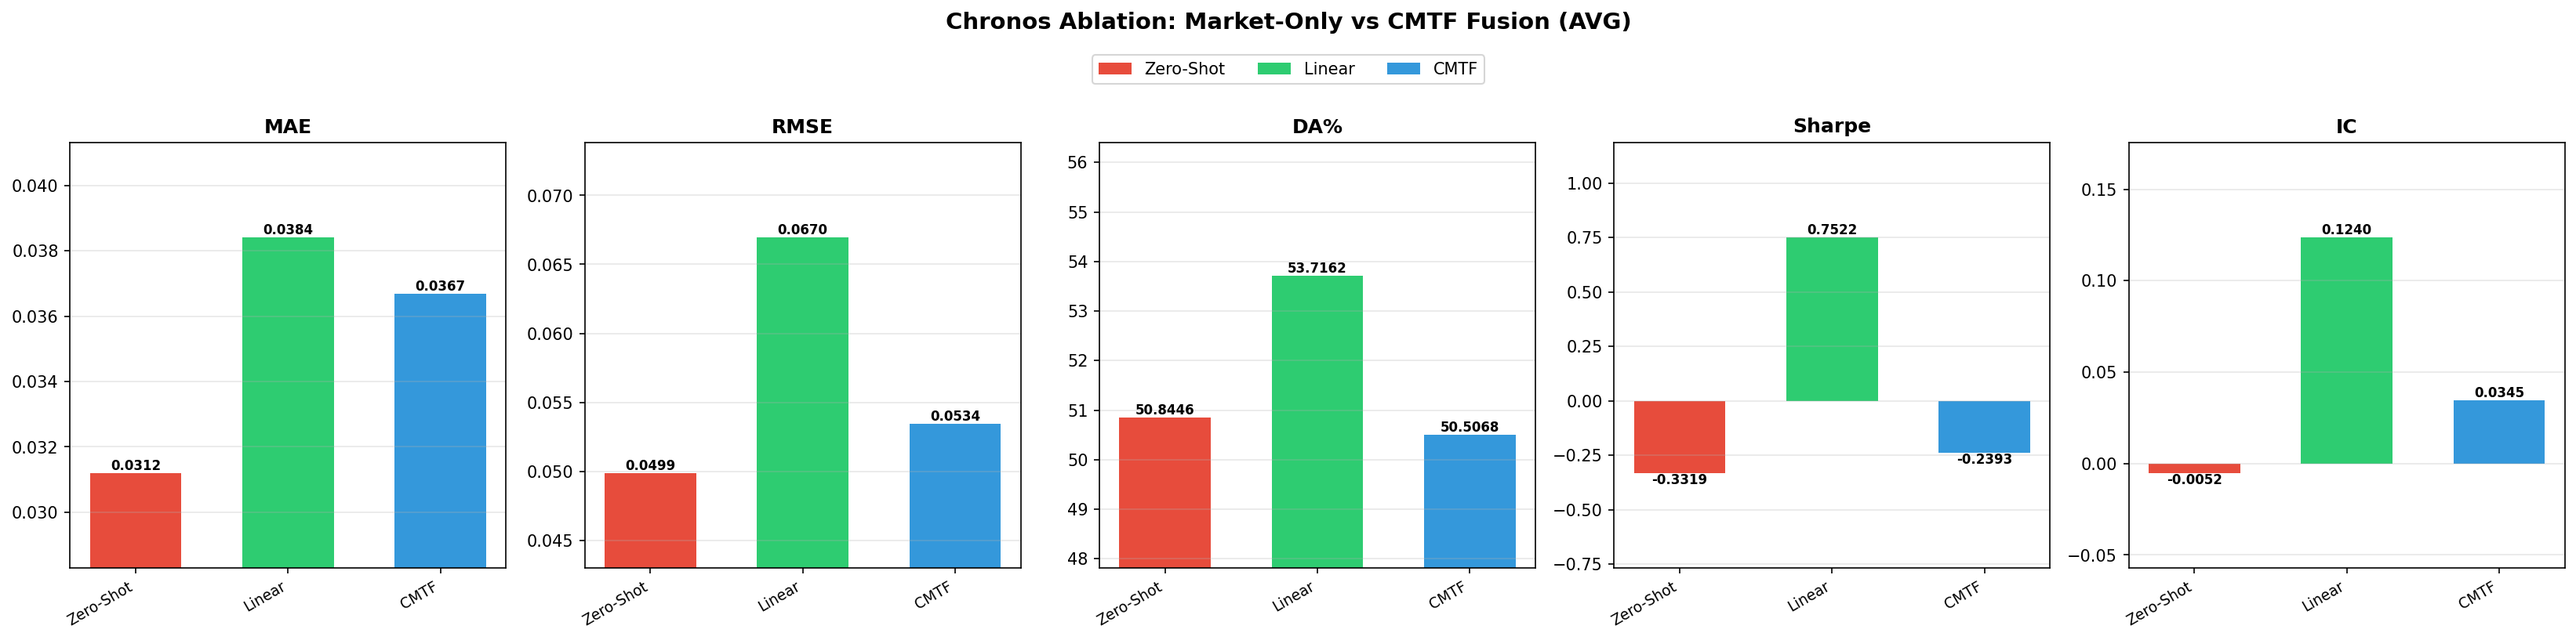
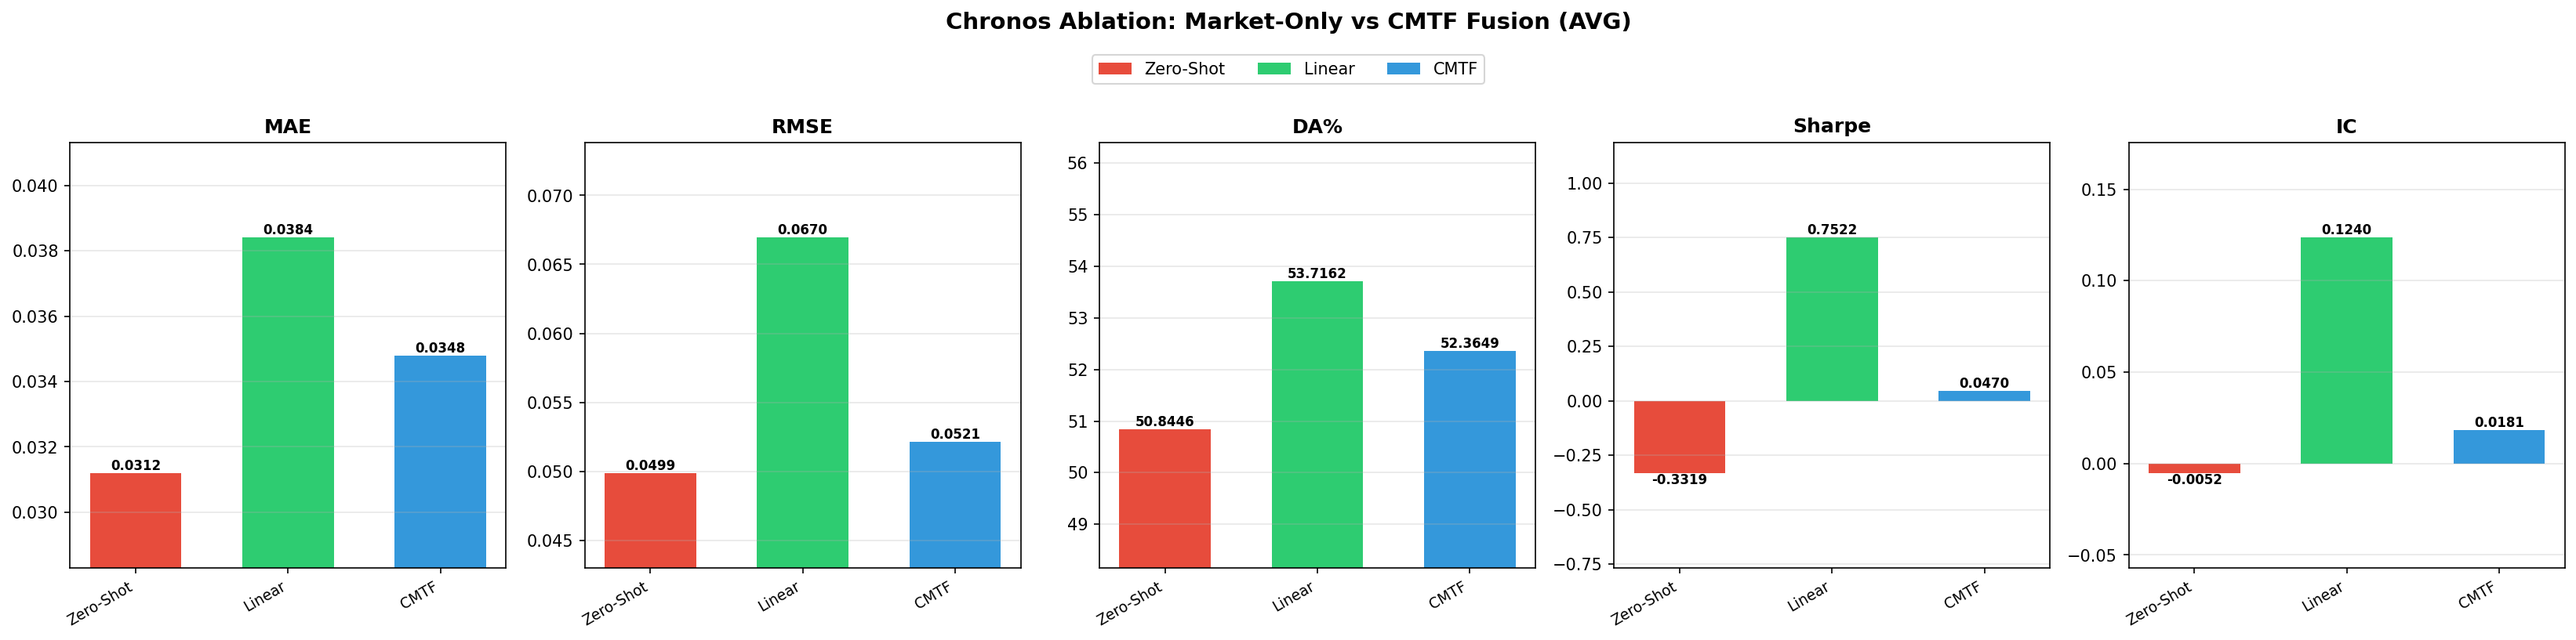
change gated cross-attention and numerical dominance

diff --git a/src/benchmark/chronos_cmtf.py b/src/benchmark/chronos_cmtf.py
@@ -3,10 +3,18 @@
 Freezes the Chronos encoder and trains a lightweight fusion head that
 merges market embeddings with aggregated news embeddings.
 
-Uses FiLM modulation (Perez et al., AAAI 2018) and Gated Residual
-Networks (Lim et al., IJoF 2021) instead of cross-attention to avoid
-the rank-collapse problem with sparse news sequences (Dong et al.,
-ICML 2021).
+Architecture:
+    1. **Gated cross-attention** (Chapter 4, Eq. 4.x):
+       A  = CrossAttn(Q_num, K_text, V_text)
+       g  = σ(W_g [Q_num ⊕ A])          ← learned gate
+       H  = Q_num + g ⊙ A               ← numerical dominance (residual)
+    2. **FiLM modulation** (Perez et al., AAAI 2018): news generates
+       γ, β to scale/shift the gated representation.
+    3. **GRN gating** (Lim et al., IJoF 2021): second gate that learns
+       when to ignore news modulation entirely.
+
+Numerical features are the residual backbone throughout — text only
+modifies, never replaces.
 """
 
 from __future__ import annotations
@@ -22,21 +30,28 @@ from .chronos_market import ChronosMarketPredictor
 
 
 class CrossModalFusionHead(nn.Module):
-    """Pooled fusion with FiLM modulation and Gated Residual Network.
+    """Gated Cross-Attention + FiLM + GRN fusion head.
 
-    Replaces cross-attention with a more robust approach for sparse news:
+    Three-stage fusion with **numerical dominance** — market features form
+    the residual backbone and text only modifies via learned gates:
 
-    1. **Masked mean-pooling** aggregates non-zero news positions into a
-       single vector, avoiding the rank-collapse that cross-attention
-       exhibits when most positions are zero-padded (Dong et al., ICML 2021).
-    2. **FiLM modulation** (Perez et al., AAAI 2018): news generates
-       scale (γ) and shift (β) that modulate market features.  Unlike
-       attention, this preserves per-sample diversity in market embeddings.
-    3. **GRN gating** (Lim et al., IJoF 2021, from Temporal Fusion
-       Transformers): learns when to ignore news entirely, providing a
-       safe market-only fallback.
+    1. **Gated Cross-Attention** (Chapter 4):
+       - A  = MultiHeadAttn(Q=market, K=news, V=news)  with causal mask
+       - g  = σ(W_g [market ⊕ A])                      learned gate
+       - H  = market + g ⊙ A                            residual add
+       Gate is initialised near zero so training starts at market-only.
+
+    2. **FiLM modulation** (Perez et al., AAAI 2018): pooled news
+       generates scale (γ) and shift (β) on the gated representation.
+
+    3. **GRN gating** (Lim et al., IJoF 2021): final gate that blends
+       FiLM-modulated and unmodulated representations.
 
     Dual-head output: regression + direction classification (BCE auxiliary).
+
+    Attributes:
+        last_gate_values: dict populated during forward() with gate
+            statistics for interpretability logging.
     """
 
     def __init__(
@@ -52,7 +67,7 @@ class CrossModalFusionHead(nn.Module):
         super().__init__()
         self.tabular_dim = tabular_dim
         self.seq_len = seq_len
-        self.n_heads = n_heads  # stored for model recreation (not used)
+        self.n_heads = n_heads
         self.market_dim = market_dim
         self.market_proj = nn.Linear(market_dim, fusion_dim)
         self.tabular_proj = nn.Linear(tabular_dim, fusion_dim) if tabular_dim > 0 else None
@@ -70,6 +85,20 @@ class CrossModalFusionHead(nn.Module):
             nn.Linear(news_dim, fusion_dim),
             nn.LayerNorm(fusion_dim),
         )
+
+        # ============================================================
+        # A1. Gated Cross-Attention
+        # ============================================================
+        # Q = market_proj(market_emb)  (B, 1, F)  ← single query
+        # K, V = news_compress(news)   (B, S, F)  ← sequence of keys/values
+        self.cross_attn = nn.MultiheadAttention(
+            embed_dim=fusion_dim,
+            num_heads=n_heads,
+            dropout=dropout,
+            batch_first=True,
+        )
+        # Learned gate:  g = σ(W_g [Q_num ⊕ A])
+        self.cross_gate = nn.Linear(fusion_dim * 2, fusion_dim)
 
         # FiLM conditioning network: news_pool + density → γ, β
         # (Perez et al., AAAI 2018 "FiLM: Visual Reasoning with a
@@ -116,17 +145,23 @@ class CrossModalFusionHead(nn.Module):
             nn.Linear(fusion_dim // 2, 1),
         )
 
-        # Init FiLM to identity modulation: γ=1, β=0 at start
-        # → model begins at market-only baseline (like LP)
+        # ---- Initialisation: start at market-only baseline ----
+        # Cross-attention gate: init near zero so g≈0 → H ≈ Q_num
+        nn.init.zeros_(self.cross_gate.weight)
+        nn.init.constant_(self.cross_gate.bias, -2.0)  # σ(-2)≈0.12
+
+        # FiLM: identity modulation γ=1, β=0 at start
         nn.init.zeros_(self.film_gamma.weight)
         nn.init.zeros_(self.film_gamma.bias)
         nn.init.zeros_(self.film_beta.weight)
         nn.init.zeros_(self.film_beta.bias)
 
-        # Init fusion reg_head output layer to zero so the model starts
-        # at the direct (LP-like) path with zero fusion contribution.
+        # Fusion reg_head output layer → zero so model starts at direct path
         nn.init.zeros_(self.reg_head[-1].weight)
         nn.init.zeros_(self.reg_head[-1].bias)
+
+        # Gate value logging for interpretability
+        self.last_gate_values: dict[str, float] = {}
 
     def forward(
         self,
@@ -134,7 +169,9 @@ class CrossModalFusionHead(nn.Module):
         news_emb: torch.Tensor,
         tabular_emb: torch.Tensor | None = None,
     ) -> tuple[torch.Tensor, torch.Tensor]:
-        # --- News aggregation: masked mean-pooling ---
+        B = market_emb.shape[0]
+
+        # --- News aggregation: masked mean-pooling (for FiLM path) ---
         news_mask = (news_emb.abs().sum(-1) > 0)  # (B, S) bool
         news_count = news_mask.sum(-1, keepdim=True).clamp(min=1).float()
         density = news_count / news_emb.shape[1]  # (B, 1) ∈ [0, 1]
@@ -148,7 +185,40 @@ class CrossModalFusionHead(nn.Module):
         if self.tabular_proj is not None and tabular_emb is not None:
             market_h = market_h + self.tabular_proj(tabular_emb)
 
-        # --- FiLM modulation: news scales/shifts market features ---
+        # ============================================================
+        # A1. Gated Cross-Attention
+        # Q = market_h  (B, 1, F) — single numerical query
+        # K, V = news_compressed (B, S, F) — text sequence
+        # key_padding_mask: True = ignore (zero-padded news positions)
+        # ============================================================
+        query = market_h.unsqueeze(1)            # (B, 1, F)
+        # Invert mask: True positions are IGNORED in nn.MultiheadAttention
+        attn_key_mask = ~news_mask               # (B, S) True = pad
+        # If all positions are padded, unmask everything to avoid NaN
+        all_pad = attn_key_mask.all(dim=1)       # (B,)
+        if all_pad.any():
+            attn_key_mask = attn_key_mask.clone()
+            attn_key_mask[all_pad] = False
+
+        attn_out, _ = self.cross_attn(
+            query, news_compressed, news_compressed,
+            key_padding_mask=attn_key_mask,
+        )                                         # (B, 1, F)
+        attn_out = attn_out.squeeze(1)            # (B, F)
+
+        # Learned gate: g = σ(W_g [Q_num ⊕ A])
+        gate_input = torch.cat([market_h, attn_out], dim=-1)  # (B, 2F)
+        cross_g = torch.sigmoid(self.cross_gate(gate_input))  # (B, F)
+
+        # Numerical dominance: H = Q_num + g ⊙ A  (A2)
+        market_h = market_h + cross_g * attn_out  # (B, F)
+
+        # Log gate statistics for interpretability
+        with torch.no_grad():
+            self.last_gate_values["cross_gate_mean"] = float(cross_g.mean())
+            self.last_gate_values["cross_gate_std"] = float(cross_g.std())
+
+        # --- FiLM modulation: news scales/shifts the gated representation ---
         film_input = torch.cat([news_pool, density], dim=-1)  # (B, F+1)
         film_h = self.film(film_input)
         gamma = 1.0 + self.film_gamma(film_h)  # centred at 1
@@ -156,9 +226,13 @@ class CrossModalFusionHead(nn.Module):
         modulated = gamma * market_h + beta  # (B, F)
 
         # --- GRN gating: residual from market-only ---
-        gate_input = torch.cat([market_h, modulated], dim=-1)  # (B, 2F)
-        gate = self.grn_gate(gate_input)  # (B, F) ∈ [0, 1]
-        fused = self.grn_norm(gate * modulated + (1 - gate) * market_h)
+        grn_input = torch.cat([market_h, modulated], dim=-1)  # (B, 2F)
+        grn_g = self.grn_gate(grn_input)  # (B, F) ∈ [0, 1]
+        fused = self.grn_norm(grn_g * modulated + (1 - grn_g) * market_h)
+
+        # Log GRN gate
+        with torch.no_grad():
+            self.last_gate_values["grn_gate_mean"] = float(grn_g.mean())
 
         # --- FFN + residual ---
         fused = self.ffn_norm(fused + self.ffn(fused))

diff --git a/run_chronos_benchmark.py b/run_chronos_benchmark.py
@@ -793,7 +793,7 @@ def main() -> None:
 
             # CMTF hyperparameters (HPO or defaults)
             cmtf_fusion_dim = hpo_params.get("fusion_dim", 128)
-            cmtf_n_heads = 1  # FiLM/GRN architecture does not use attention heads
+            cmtf_n_heads = hpo_params.get("n_heads", 4)  # cross-attention heads
             cmtf_dropout = hpo_params.get("dropout", 0.2)
             cmtf_bce_weight = hpo_params.get("bce_weight", 0.2)
             cmtf_lr = hpo_params.get("lr", 5e-4)
